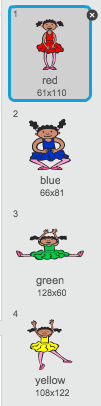
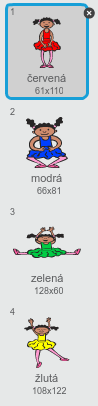
cs: couple of translated images

diff --git a/cs-CZ/Term 2/Memory/Memory.md b/cs-CZ/Term 2/Memory/Memory.md
@@ -27,7 +27,7 @@ Vytvořme postavičku, která bude měnit barvy. Tyto si hráč snaží zapamato
 
 + Vytvoř nový projekt ve Scratchi a smaž kočičí sprite tak, aby byl projekt prázndý. Webový scratch editor najdeš na <a href="http://jumpto.cc/scratch-new">jumpto.cc/scratch-new</a>.
 
-+ Vyber si postavičku a pozadí _backdrop_. Postavička nemusí být člověk, ale musí být jednoduché ji přemalovat na jinou barvu.
++ Vyber si postavičku a pozadí scény. Postavička nemusí být člověk, ale musí být jednoduché ji přemalovat na jinou barvu (mít kostýmy).
 
 	![screenshot](colour-sprite.png)
 
@@ -38,7 +38,7 @@ Vytvořme postavičku, která bude měnit barvy. Tyto si hráč snaží zapamato
 	+ 3 = zelená;
 	+ 4 = žlutá.
 
-	Dej svojí postavičce 4 různě barevné kostýmy, pro kažou zmíněnou barvu jeden (zkopíruj první kostým a v editoru změň barvu). Zkontroluj, že jsou barvy oblečků ve správném pořadí.
+	Dej svojí postavičce 4 různě barevné kostýmy, pro kažou zmíněnou barvu jeden (zkopíruj kostým a/nebo v editoru změň barvu). Zkontroluj, že jsou barvy oblečků ve správném pořadí.
 
 	![screenshot](colour-costume.png)
 
